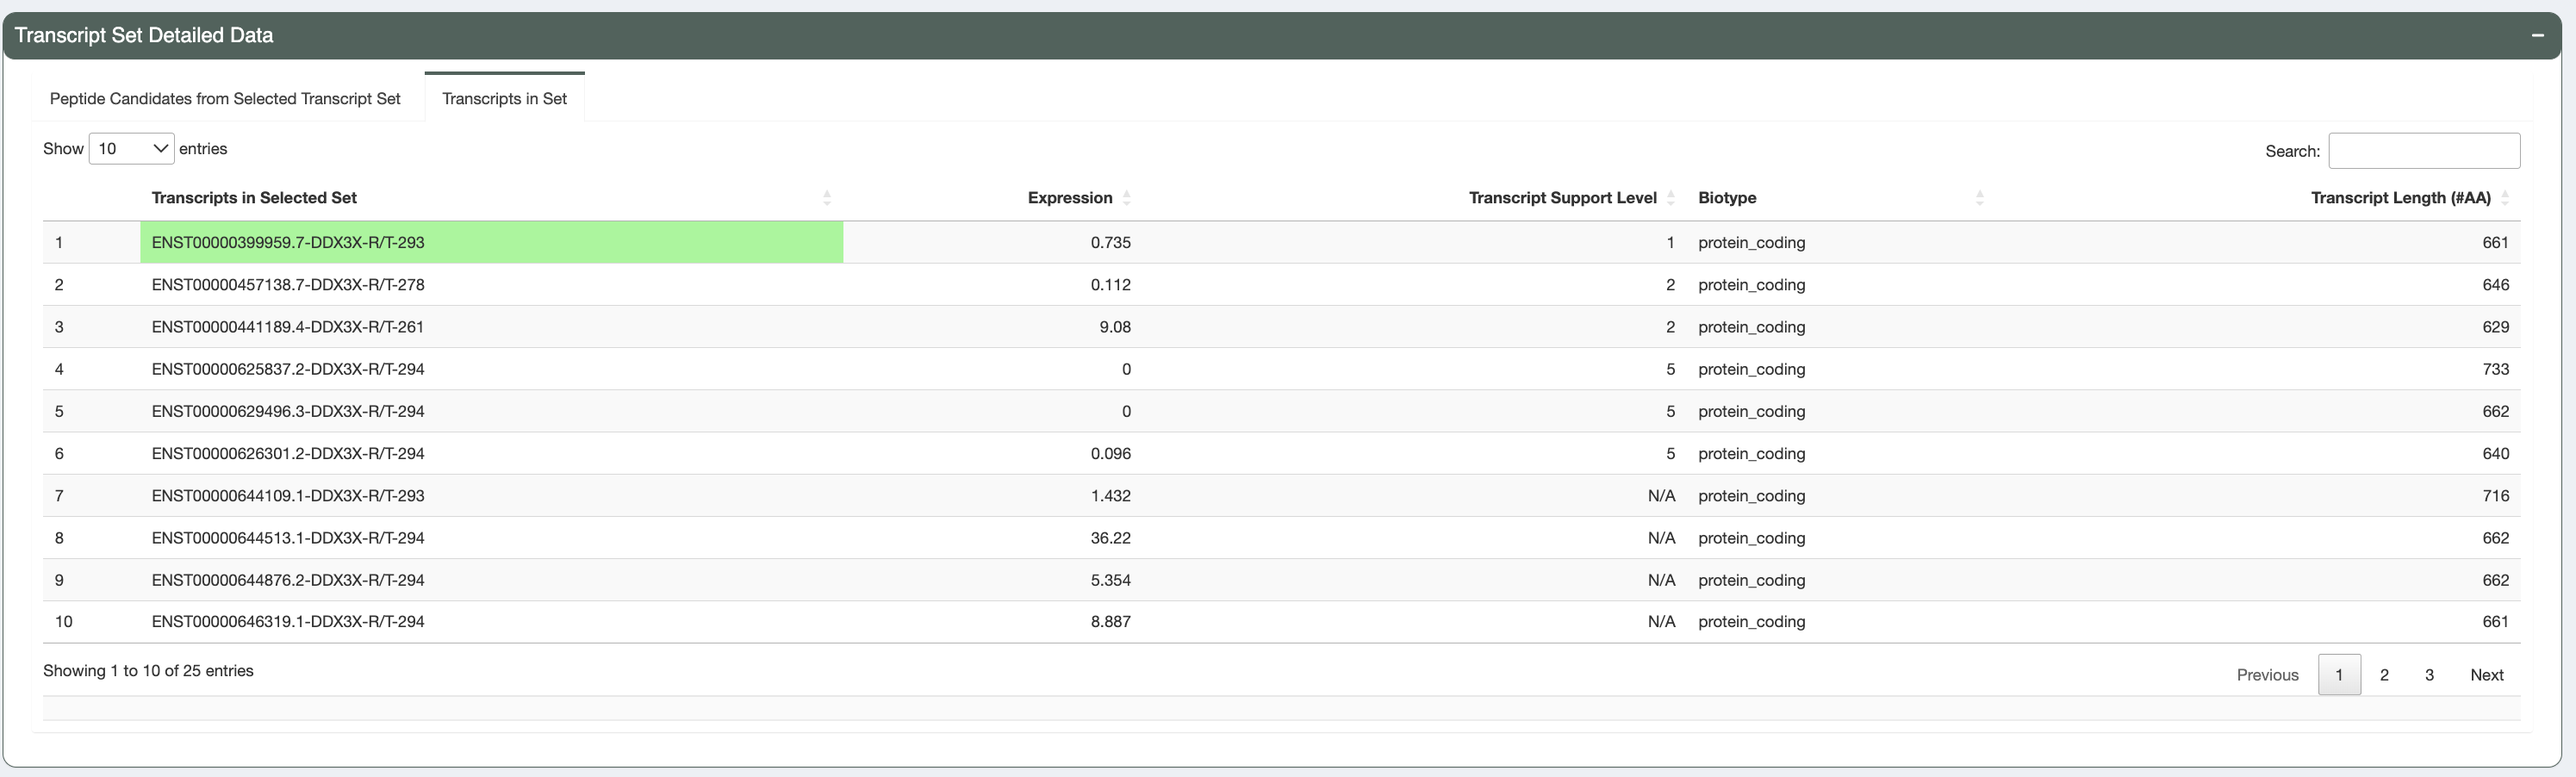
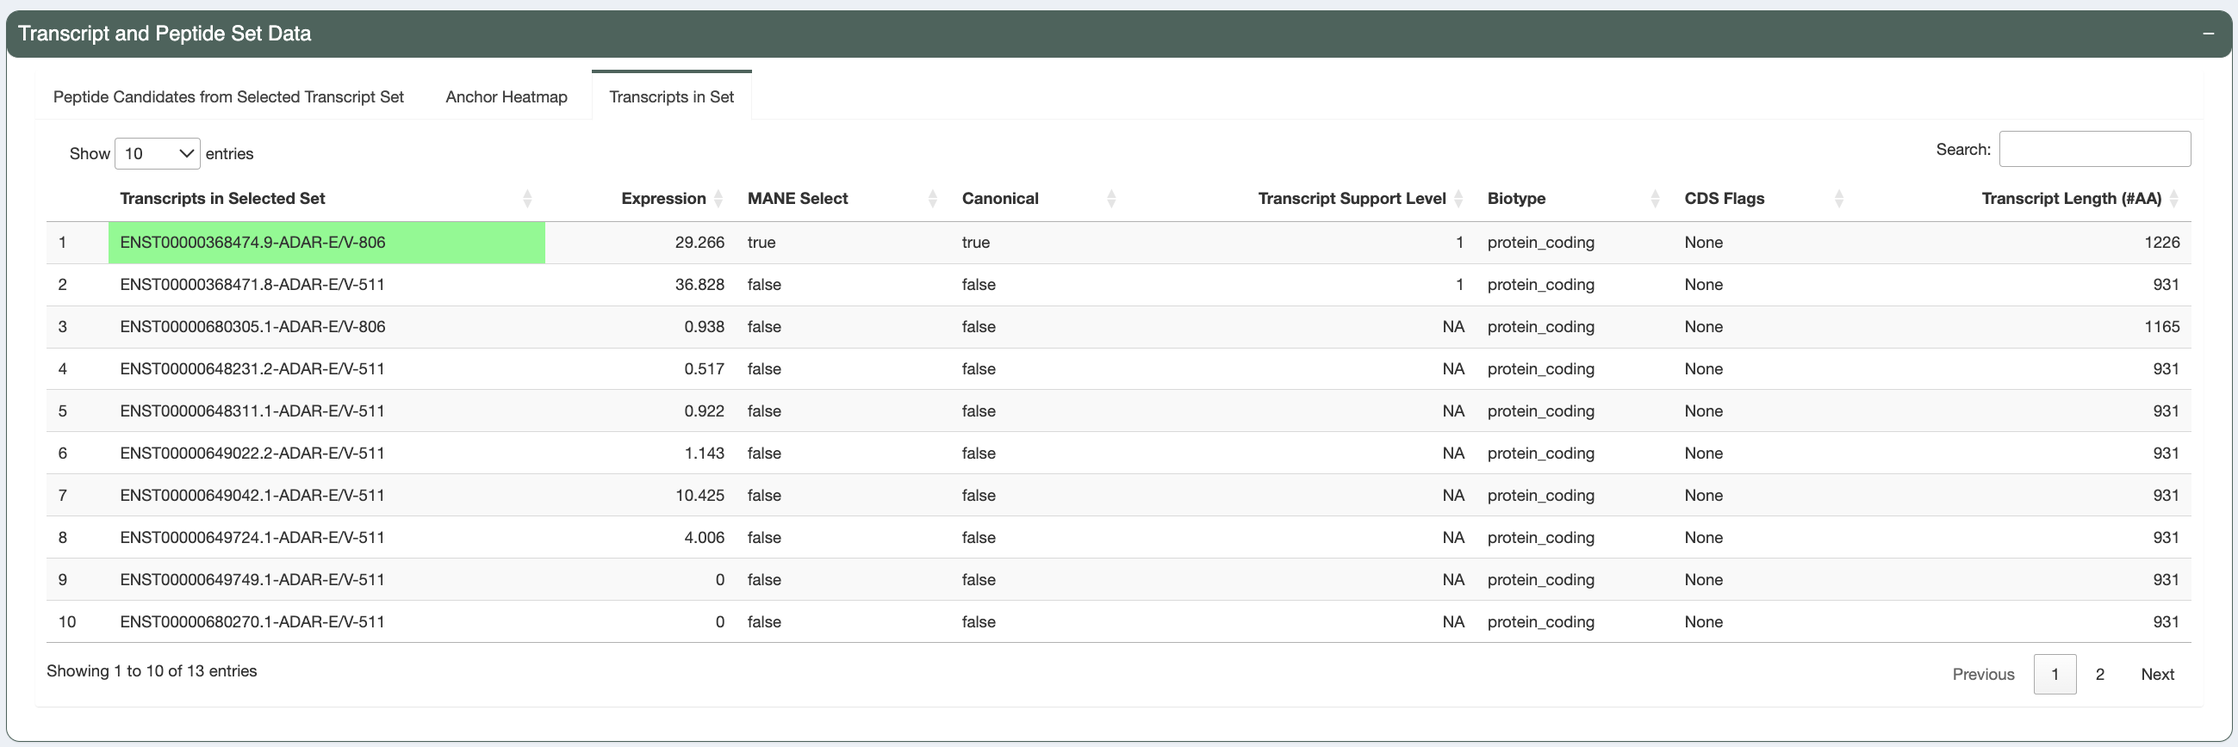
Update pVACview documentation for pVACseq module features

diff --git a/docs/pvacview/pvacseq_module/pvacseq_features.rst b/docs/pvacview/pvacseq_module/pvacseq_features.rst
@@ -73,11 +73,12 @@ There are three separate boxes in this section as shown, from left to right you 
     The selected variant may have multiple transcripts covering the region. However, some transcripts might code for the
     same set of neoantigen candidates if the difference between transcripts is outside of the immediate area around the
     somatic mutation of interest. This table lists these different sets with the number of transcripts in each set,
-    the number of corresponding peptides and the total expression of all transcripts in the set.
+    the number of corresponding peptides and the total expression of all transcripts in the set. The transcript set that includes
+    the best peptide is highlighted in green and selected by default.
 
-  - Referene Matches
+  - Reference Matches
 
-    When the reference proteome similarity feature was enabled during the
+    If the reference proteome similarity feature was enabled during the
     original pVACseq run, this tab will show the Best Peptide, the larger peptide
     sequence around the Best Peptide that was queried for and it will list the
     hits that were found in the reference proteome for that query sequence.
@@ -108,40 +109,61 @@ There are three separate boxes in this section as shown, from left to right you 
 :large:`Transcript Set Detailed Data (Peptide Information)`
 ___________________________________________________________
 
-Upon selecting the transcript set for further examination, users can navigate to this table which displays
-all peptide sequences (from your selected transcript set in the transcripts table) that were predicted to be good binders
-(for at least 1 HLA allele). Both mutant (MT) and wildtype (WT) sequences
-are shown, along with binding affinities (where the MT binding passed the binding threshold). Whether this table shows
-mutant or lowest binding affinities depends on the value of the
-``--top-score-metrics`` from the original pVACseq run.
+- :bold:`Peptide Candidates from Selected Transcript Set:`
 
-This table also shows for each peptide, whether there were any problematic
-positions and whether or not the peptide failed the anchor residue criteria
-for any of the HLA alleles. Peptides failing these criteria are deprioritized
-in the sorting of this table.
+  Upon selecting the transcript set for further examination, users can navigate to this table which displays
+  all peptide sequences included for the transcripts in the selected transcript set in the transcripts table.
+  Included peptides depend on the ``--aggregate-inclusion-binding-threshold`` and
+  ``--aggregate-inclusion-count-limit`` specified in the original pVACseq run.
+  Both mutant (MT) and wildtype (WT) sequences are shown, along with binding affinities (where the MT binding
+  passed the binding threshold). Whether this table shows mutant or lowest binding affinities depends on the
+  value of the ``--top-score-metrics`` from the original pVACseq run.
 
-.. figure:: ../../images/screenshots/pvacview-peptide_table.png
-    :width: 1000px
-    :align: right
-    :alt: pVACview Upload
-    :figclass: align-left
+  This table also shows for each peptide, whether there were any problematic
+  positions and whether or not the peptide failed the anchor residue criteria
+  for any of the HLA alleles. Peptides failing these criteria are deprioritized
+  in the sorting of this table.
 
-We also provide (in the "Transcripts in Set" tab), additional information regarding the transcripts producing these peptides.
-This includes: transcript id, individual transcript expression, `transcript support level <http://uswest.ensembl.org/info/genome/genebuild/transcript_quality_tags.html>`_, biotype and transcript length. Transcripts with a protein_coding biotype, low TSL and long length
-are prioritized in the sorting of this table.
-
-.. figure:: ../../images/screenshots/pvacview-transcript_set.png
-    :width: 1000px
-    :align: right
-    :alt: pVACview Upload
-    :figclass: align-left
+  .. figure:: ../../images/screenshots/pvacview-peptide_table.png
+      :width: 1000px
+      :align: right
+      :alt: pVACview Upload
+      :figclass: align-left
 
 
+- :bold:`Anchor Heatmap:`
 
-:large:`Additional Peptide Information (Additional information regarding individual algorithm binding and anchor scores)`
-_________________________________________________________________________________________________________________________
+  Previously, our lab has computationally predicted anchor positions for different hla alleles and peptide length combinations
+  (`"Computational prediction of MHC anchor locations guides neoantigen identification and prioritization" <https://www.science.org/doi/10.1126/sciimmunol.abg2200?url_ver=Z39.88-2003&rfr_id=ori:rid:crossref.org&rfr_dat=cr_pub%20%200pubmed>`_).
+  These predictions are normalized probabilities representing the likelihood of each position of the peptide to participate in anchoring to the hla allele.
+  The peptide pairs from the peptide table are shown in this tab with anchor probabilities overlaying as a heatmap. These anchor probabilities shown are both allele and peptide length specific.
+  The mutated amino acid(s) is/are marked in red (or the flanking ones are, in the case of deletions) and each MT/WT pair are separated from others using a dotted line.
 
-There are five different tabs in this section of the app, providing peptide-level details on the MT/WT peptide pair that you selected in the peptide table.
+  .. figure:: ../../images/screenshots/pvacview-anchor_heatmap.png
+      :width: 1000px
+      :align: center
+
+
+- :bold:`Transcripts in Set:`
+
+  In this tab we provide additional information regarding the transcripts producing these peptides.
+  This includes: Ensembl transcript id, individual transcript expression, MANE select status, Canonical
+  status, `transcript support level <http://uswest.ensembl.org/info/genome/genebuild/transcript_quality_tags.html>`_,
+  biotype, CDS Flags status, and transcript length. Transcripts with a protein_coding biotype, no CDS Flags,
+  that are the MANE Select or Canonical transcript, that have a low TSL, long length, and high expression
+  are prioritized in the sorting of this table (in this order).
+
+  .. figure:: ../../images/screenshots/pvacview-transcript_set.png
+      :width: 1000px
+      :align: right
+      :alt: pVACview Upload
+      :figclass: align-left
+
+
+:large:`Additional Peptide Information (Additional information regarding individual algorithm binding)`
+_______________________________________________________________________________________________________
+
+There are four different tabs in this section of the app, providing peptide-level details on the MT/WT peptide pair that you selected in the peptide table.
 
 - :bold:`IC50 Plot:`
 
@@ -152,7 +174,6 @@ There are five different tabs in this section of the app, providing peptide-leve
       :width: 1000px
       :align: center
       :alt: pVACview Upload
-      
 
 
 - :bold:`%ile Plot:`
@@ -164,7 +185,7 @@ There are five different tabs in this section of the app, providing peptide-leve
   .. figure:: ../../images/screenshots/pvacview-additional_info_2.png
       :width: 1000px
       :align: center
- 
+
 
 - :bold:`Binding Data:`
 
@@ -174,28 +195,13 @@ There are five different tabs in this section of the app, providing peptide-leve
   .. figure:: ../../images/screenshots/pvacview-additional_info_3.png
       :width: 1000px
       :align: center
-              
 
-- :bold:`Elution Data:`
 
-  Here, we provide the specific elution scores and percentiled generated from each individual algorithm.
+- :bold:`Elution and Immunogenicity Data:`
+
+  Here, we provide the specific presentation and immunogenicity scores and percentiles generated from each individual algorithm.
   This data is specific to the MT/WT peptide pair selected in the peptide table.
 
   .. figure:: ../../images/screenshots/pvacview-additional_info_4.png
       :width: 1000px
       :align: center
-     
-
-- :bold:`Allele-specific anchor prediction heatmap:`
-
-  Previously, our lab has computationally predicted anchor positions for different hla alleles and peptide length combinations
-  (`"Computational prediction of MHC anchor locations guides neoantigen identification and prioritization" <https://www.science.org/doi/10.1126/sciimmunol.abg2200?url_ver=Z39.88-2003&rfr_id=ori:rid:crossref.org&rfr_dat=cr_pub%20%200pubmed>`_).
-  These predictions are normalized probabilities representing the likelihood of each position of the peptide to participate in anchoring to the hla allele.
-  Top 30 MT/WT peptide pairs from the peptide table are shown in this tab with anchor probabilities overlaying as a heatmap. These anchor probabilities shown are both allele and peptide length specific.
-  The mutated amino acid(s) is/are marked in red (or the flanking ones are, in the case of deletions) and each MT/WT pair are separated from others using a dotted line.
-
-  .. figure:: ../../images/screenshots/pvacview-additional_info_5.png
-      :width: 1000px
-      :align: center
-
-
